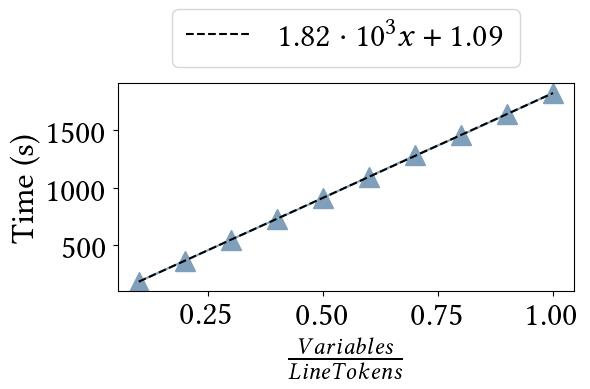
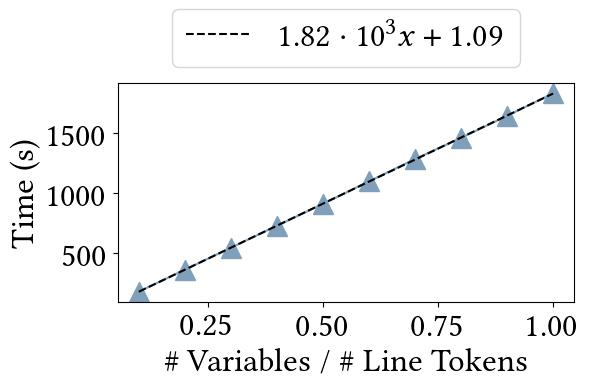
Improve axis labels on scalability plots

diff --git a/evaluation/8.4-data-transformation/8.4.1-scalability/plot.py b/evaluation/8.4-data-transformation/8.4.1-scalability/plot.py
@@ -45,7 +45,7 @@ LINE_FORMATTING_DATA = {
         "xaxis_mult":1
     },
     "variables": {
-        "xlabel": r"$\frac{Variables}{Line Tokens}$",
+        "xlabel": r"\# Variables / \# Line Tokens",
         "color": "#7F9FBA",
         "parse_fit_start_idx": 0,
         "parse_fit_end_idx": 10,
@@ -79,14 +79,14 @@ def form_polynomial_string(p):
     p_str = p_str.replace("x", r"}x")
     return p_str
 
-plots_dir = os.path.join(LOGOS_ROOT_DIR, "evaluation", "plots")
+plots_dir = os.path.join(LOGOS_ROOT_DIR, "evaluation", "paper_plots")
 
 
 for metric in LINE_FORMATTING_DATA.keys():
 
     # Read data from CSV
     path = os.path.join(
-        LOGOS_ROOT_DIR, "evaluation", "results", f"8.4.1-scalability-{metric}.csv"
+        LOGOS_ROOT_DIR, "evaluation", "paper_results", f"8.4.1-scalability-{metric}.csv"
     )
     data = pd.read_csv(path)
     data.columns = [x.strip() for x in data.columns]
